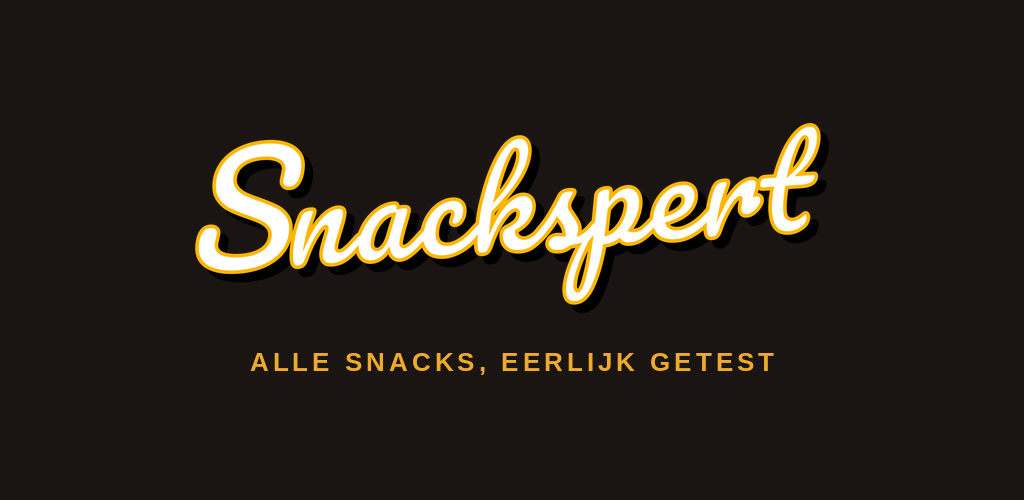
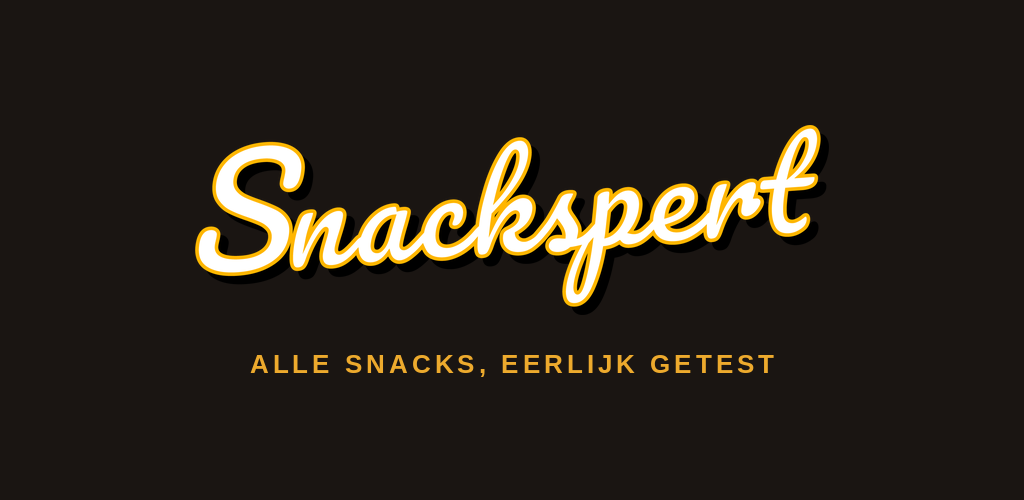
Add the App Store header asset in both sizes it accepts
App Store Connect's product page takes a header image at 5244x2950 or
3840x1646. Both are generated from the same wordmark-on-brand-background as the
Play graphics, so every store shows the same thing as the app icon. The script
now covers all four files.

Claude-Session: https://claude.ai/code/session_01E767qq5Moc1mYWy9bBmsQ7

Changed region(s): [[0.1875, 0.24, 0.8125, 0.63], [0.25, 0.69, 0.75, 0.75]]

diff --git a/snackspert-app/scripts/maak-winkel-assets.py b/snackspert-app/scripts/maak-winkel-assets.py
@@ -1,51 +1,72 @@
 #!/usr/bin/env python3
-"""Genereer de winkelbestanden voor de Play Console uit het bestaande logo."""
+"""
+Genereer de winkelbestanden voor App Store Connect en de Play Console uit het
+bestaande logo, zodat ze allemaal dezelfde huisstijl hebben als het app-icoon.
+
+Gebruik: python3 scripts/maak-winkel-assets.py
+"""
 
 from PIL import Image, ImageDraw, ImageFont
 from pathlib import Path
 
-ASSETS = Path('/home/user/snackspert/snackspert-app/assets')
-UIT = Path('/home/user/snackspert/snackspert-app/winkel-assets')
+HIER = Path(__file__).resolve().parent.parent
+ASSETS = HIER / 'assets'
+UIT = HIER / 'winkel-assets'
 UIT.mkdir(exist_ok=True)
 
 DONKER = (26, 21, 18)       # #1A1512, de achtergrond van je app-icoon
 GOUD = (237, 170, 45)       # #EDAA2D, je accentkleur
+TAGLINE = 'ALLE SNACKS, EERLIJK GETEST'
+FONT = '/usr/share/fonts/truetype/liberation/LiberationSans-Bold.ttf'
 
-# ── 1. App-icoon 512x512 ────────────────────────────────────────
+
+def banner(breedte: int, hoogte: int, logo_deel: float = 0.62) -> Image.Image:
+    """Woordmerk met tagline, gecentreerd op de merkachtergrond."""
+    doek = Image.new('RGB', (breedte, hoogte), DONKER)
+
+    woordmerk = Image.open(ASSETS / 'SNACKSPERT_LOGO_SB_PIXEL.png').convert('RGBA')
+    doelbreedte = int(breedte * logo_deel)
+    schaal = doelbreedte / woordmerk.width
+    woordmerk = woordmerk.resize(
+        (doelbreedte, int(woordmerk.height * schaal)), Image.LANCZOS
+    )
+
+    # Tekstgrootte meeschalen met het doek, zodat elk formaat er gelijk uitziet.
+    tekengrootte = max(12, int(hoogte * 0.052))
+    font = ImageFont.truetype(FONT, tekengrootte)
+    teken = ImageDraw.Draw(doek)
+
+    # Letterafstand met de hand: PIL kan dat niet zelf.
+    spatie = max(2, int(tekengrootte * 0.16))
+    tekstbreedte = sum(teken.textlength(c, font=font) + spatie for c in TAGLINE) - spatie
+
+    tussenruimte = int(hoogte * 0.068)
+    blok = woordmerk.height + tussenruimte + tekengrootte
+    top = (hoogte - blok) // 2
+
+    doek.paste(woordmerk, ((breedte - woordmerk.width) // 2, top), woordmerk)
+
+    x = (breedte - tekstbreedte) / 2
+    y = top + woordmerk.height + tussenruimte
+    for c in TAGLINE:
+        teken.text((x, y), c, font=font, fill=GOUD)
+        x += teken.textlength(c, font=font) + spatie
+
+    return doek
+
+
+# ── App Store Connect ───────────────────────────────────────────
+# De twee maten die App Store Connect noemt bij "Header".
+for b, h in [(5244, 2950), (3840, 1646)]:
+    naam = f'appstore-header-{b}x{h}.png'
+    # Bij de brede, lage variant past het logo smaller, anders raakt het de rand.
+    banner(b, h, logo_deel=0.62 if h / b > 0.4 else 0.46).save(UIT / naam)
+    print(f'{naam:34} {b}x{h}')
+
+# ── Play Console ────────────────────────────────────────────────
 icoon = Image.open(ASSETS / 'icon.png').convert('RGB')
 icoon.resize((512, 512), Image.LANCZOS).save(UIT / 'play-icoon-512.png')
-print('play-icoon-512.png            512x512')
+print(f'{"play-icoon-512.png":34} 512x512')
 
-# ── 2. Feature graphic 1024x500 (de "header") ───────────────────
-B, H = 1024, 500
-doek = Image.new('RGB', (B, H), DONKER)
-
-woordmerk = Image.open(ASSETS / 'SNACKSPERT_LOGO_SB_PIXEL.png').convert('RGBA')
-breedte = int(B * 0.62)
-schaal = breedte / woordmerk.width
-woordmerk = woordmerk.resize((breedte, int(woordmerk.height * schaal)), Image.LANCZOS)
-
-tagline = 'ALLE SNACKS, EERLIJK GETEST'
-font = ImageFont.truetype(
-    '/usr/share/fonts/truetype/liberation/LiberationSans-Bold.ttf', 26
-)
-teken = ImageDraw.Draw(doek)
-# Letterafstand met de hand, want PIL kan dat niet zelf.
-spatie = 4
-tekstbreedte = sum(teken.textlength(c, font=font) + spatie for c in tagline) - spatie
-
-# Logo en tagline als één blok verticaal centreren.
-tussenruimte = 34
-blok = woordmerk.height + tussenruimte + 30
-top = (H - blok) // 2
-
-doek.paste(woordmerk, ((B - woordmerk.width) // 2, top), woordmerk)
-
-x = (B - tekstbreedte) / 2
-y = top + woordmerk.height + tussenruimte
-for c in tagline:
-    teken.text((x, y), c, font=font, fill=GOUD)
-    x += teken.textlength(c, font=font) + spatie
-
-doek.save(UIT / 'play-header-1024x500.png')
-print('play-header-1024x500.png     1024x500')
+banner(1024, 500).save(UIT / 'play-header-1024x500.png')
+print(f'{"play-header-1024x500.png":34} 1024x500')
